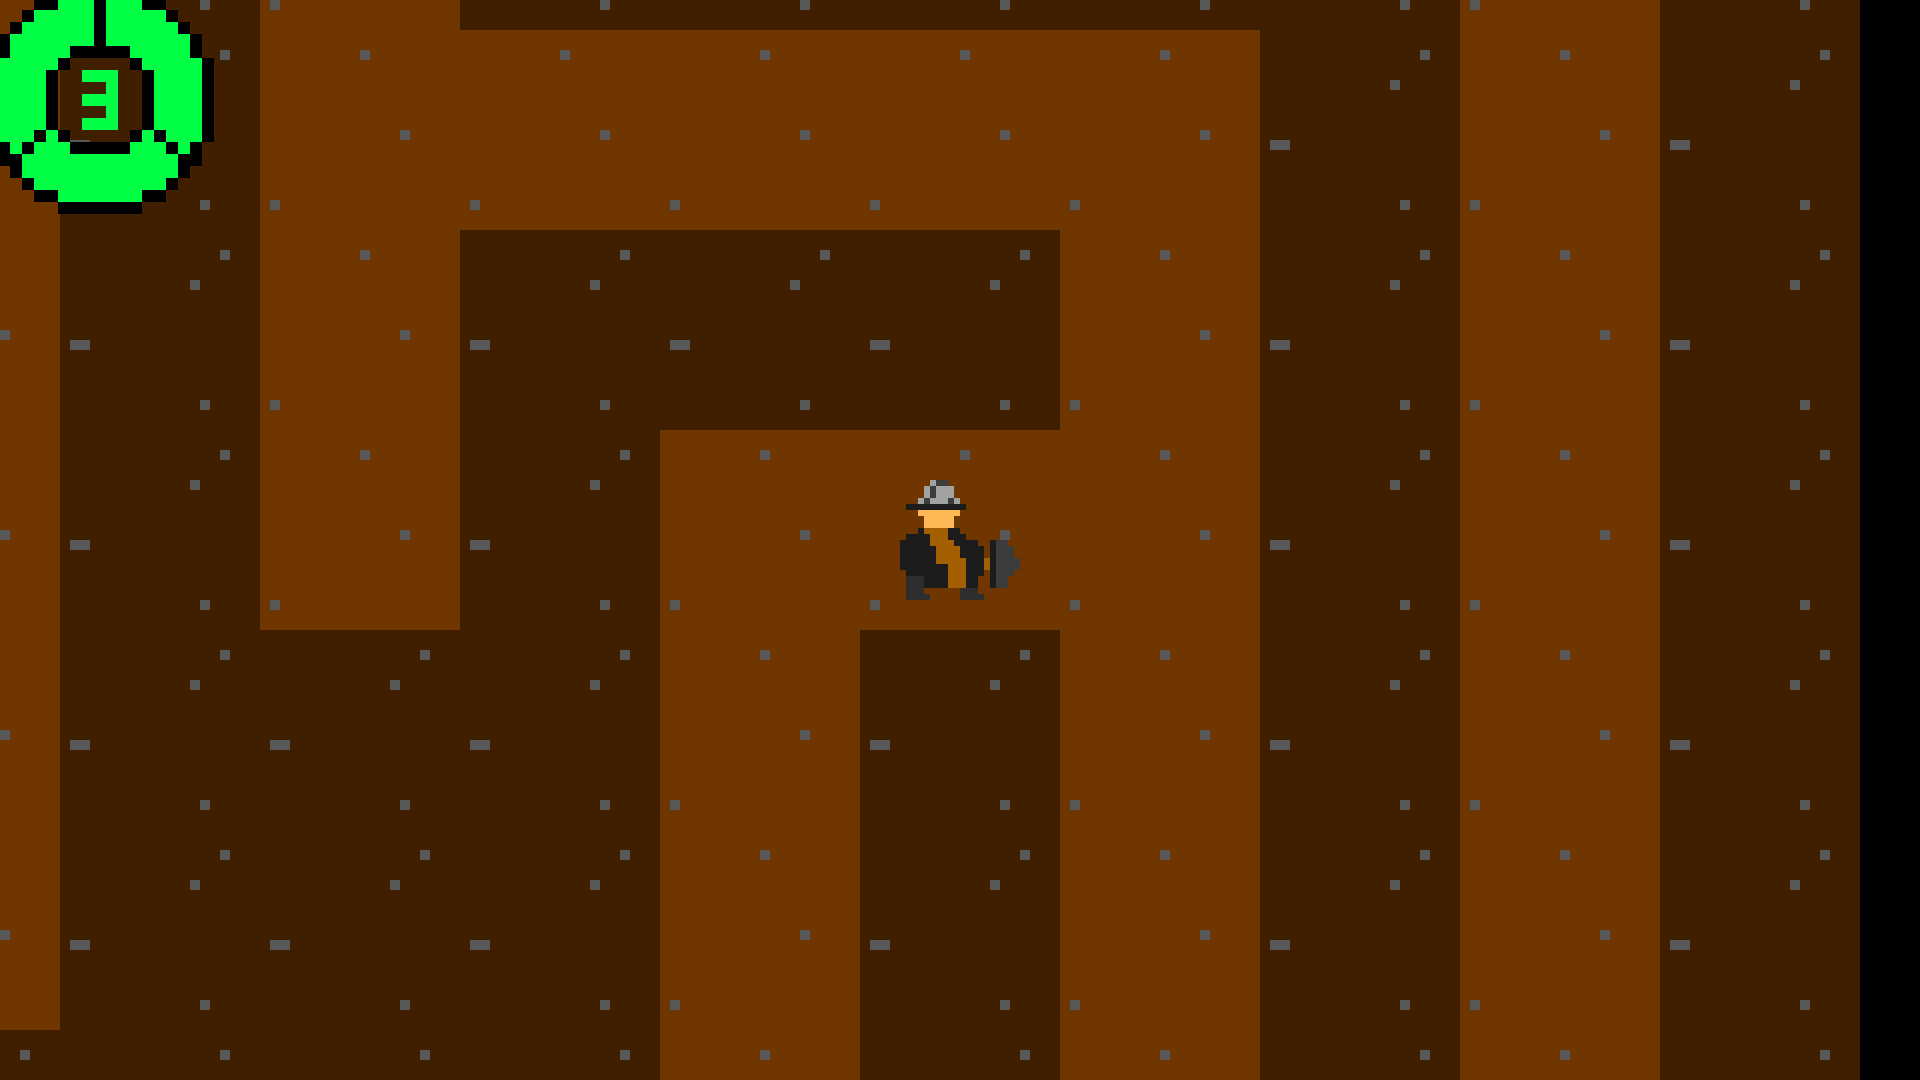
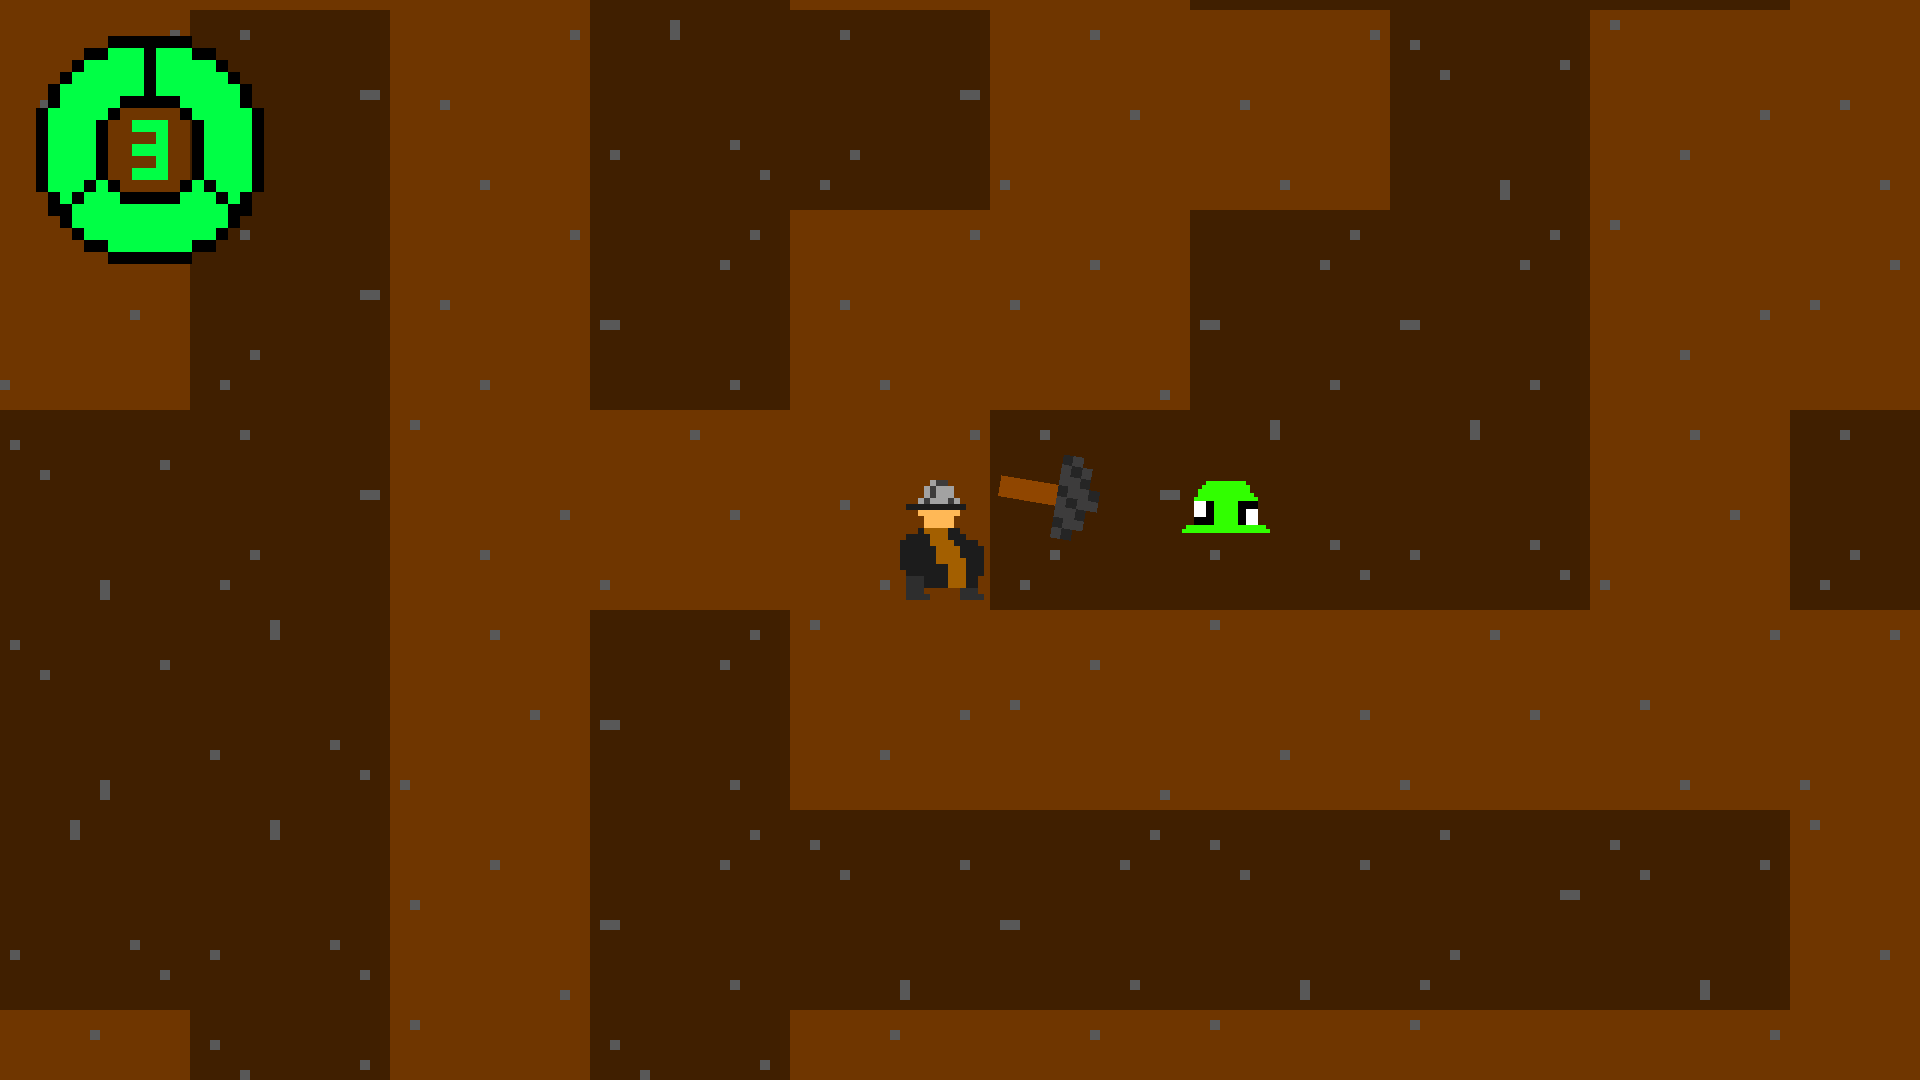
Slime Updated, Glitches Patched

diff --git a/Game.py b/Game.py
@@ -1,5 +1,6 @@
 import pygame
 from Character_Object import miner, Drill, slime
+from random import randint
 
 pygame.init()
 screen = pygame.display.set_mode((0, 0), pygame.FULLSCREEN)
@@ -23,11 +24,15 @@ class Path(Tile):
     def __init__(self, x, y, playerPos):
         super().__init__(x, y, playerPos) #Call SuperObject
         self.image = pygame.image.load("Textures\MainGame\path.png").convert_alpha() #Path
+        temp = randint(0, 3)
+        self.image = pygame.transform.rotate(self.image, temp * 90)
 
 class Wall(Tile):
     def __init__(self, x, y, playerPos):
         super().__init__(x, y, playerPos) #Call SuperObject
         self.image = pygame.image.load("Textures\MainGame\wall.png").convert_alpha() #Wall
+        temp = randint(0, 3)
+        self.image = pygame.transform.rotate(self.image, temp * 90)
 
 class health(pygame.sprite.Sprite):
     def __init__(self, health, x, y):
@@ -90,6 +95,7 @@ healthBar = health(player.health, 150, 150)
 drill = Drill(960, 540)
 slimeAlpha = slime(500, 500)
 healthBarGroup = pygame.sprite.GroupSingle(healthBar)
+slimeGroup = pygame.sprite.GroupSingle(slimeAlpha)
 
 while True:
     screen.fill((0, 0, 0))
@@ -103,6 +109,7 @@ while True:
         if pygame.sprite.spritecollide(player, wallGroup, False, pygame.sprite.collide_mask):
             allTilesGroup.update(0, -1)
         else:
+            moved = True
             vector[1] += 1
 
     if keys[pygame.K_s] or keys[pygame.K_DOWN]:
@@ -110,6 +117,7 @@ while True:
         if pygame.sprite.spritecollide(player, wallGroup, False, pygame.sprite.collide_mask):
             allTilesGroup.update(0, 1)
         else:
+            moved = True
             vector[1] -= 1
 
     if keys[pygame.K_d] or keys[pygame.K_RIGHT]:
@@ -117,6 +125,7 @@ while True:
         if pygame.sprite.spritecollide(player, wallGroup, False, pygame.sprite.collide_mask):
             allTilesGroup.update(-1, 0)
         else:
+            moved = True
             vector[0] += 1
 
     if keys[pygame.K_a] or keys[pygame.K_LEFT]:
@@ -124,35 +133,52 @@ while True:
         if pygame.sprite.spritecollide(player, wallGroup, False, pygame.sprite.collide_mask):
             allTilesGroup.update(1, 0)
         else:
+            moved = True
             vector[0] -= 1
 
-    player.animation(vector[0], vector[1], time, 1)
-    healthBarGroup.update()
+    direction = player.animation(vector[0], vector[1], time, 1) #Work out which direction we are facing
+    if not(moved) and pygame.sprite.spritecollide(player, wallGroup, False, pygame.sprite.collide_mask): #If we are in a wall, we kick the player out
+        if direction:
+            allTilesGroup.update(1, 0)
+        else:
+            allTilesGroup.update(-1,0)
+
+    healthBarGroup.update() #Update everything
     slimeAlpha.update(time)
     drill.update(pygame.mouse.get_pos(), time)
-
     allTilesGroup.draw(screen)
+    player.immune(0, time)
     screen.blit(player.image, player.rect)
     screen.blit(drill.image, drill.rect)
     screen.blit(slimeAlpha.image, slimeAlpha.rect)
     healthBarGroup.draw(screen)
 
+    if pygame.sprite.spritecollide(drill, slimeGroup, True, pygame.sprite.collide_mask):
+        del slimeAlpha
+        slimeAlpha = slime(randint(0, 1920), randint(0, 1080))
+        slimeGroup = pygame.sprite.GroupSingle(slimeAlpha)
+
+    if pygame.sprite.spritecollide(player, slimeGroup, False, pygame.sprite.collide_mask) and not(player.immunity):
+        healthBar.health -= 1
+        player.immune(1, time)
+        if healthBar.health == 0:
+            pygame.quit()
+            exit()
+
+    if not(vector[0]) or not(vector[1]):
+        previousVector = vector
     for event in pygame.event.get():
         if event.type == pygame.QUIT:
+            pygame.quit()
             exit()
 
         if event.type == pygame.KEYDOWN:
             if event.key == pygame.K_KP_ENTER:
+                pygame.quit()
                 exit()
 
             if event.key == pygame.K_KP_PLUS:
                 pygame.image.save(screen, "gameImage.png")
-
-            if event.key == pygame.K_KP_MINUS:
-                healthBar.health -= 1
-
-            if event.key == pygame.K_KP_MULTIPLY:
-                healthBar.health += 1
 
     pygame.display.flip()
     pygame.time.Clock().tick(60)

diff --git a/Character_Object.py b/Character_Object.py
@@ -17,6 +17,8 @@ class miner(pygame.sprite.Sprite): #Creates a movable player
         self.rect = self.image.get_rect(center = (x, y))
         self.mask = pygame.mask.from_surface(self.image)
         self.health = 3
+        self.immunity = False
+        self.timeStamp = 61
 
     def update(self, dx, dy): #Allows the player to move
         self.rect.x += dx * self.velocity
@@ -39,6 +41,8 @@ class miner(pygame.sprite.Sprite): #Creates a movable player
         self.image = pygame.transform.scale(self.image, (60 * self.size, 60 * self.size))
         self.mask = pygame.mask.from_surface(self.image)
 
+        return self.facingDirection
+
     def collide(self):
         if self.facingDirection:
             self.rect.x += self.velocity
@@ -47,17 +51,28 @@ class miner(pygame.sprite.Sprite): #Creates a movable player
             self.rect.x -= self.velocity
             self.rect.y += 1
 
+    def immune(self, flag, time):
+        if flag:
+            self.timeStamp = time
+            self.immunity = True
+        else:
+            if time == self.timeStamp:
+                self.immunity = False
+                self.timeStamp = 61
+
 class Drill(pygame.sprite.Sprite):
   def __init__(self, x, y):
     super().__init__()
-    self.images = ["Textures/Characters/Miner/Drill_1.png", "Textures/Characters/Miner/Drill_2.png", "Textures/Characters/Miner/Drill_3.png"]
+    self.images = ["Textures/Characters/Miner/Drill_1.png", "Textures/Characters/Miner/Drill_2.png", "Textures/Characters/Miner/Drill_3.png"] #All Frames of the animation
     self.pointer = 0
     self.originalImage = pygame.image.load(self.images[self.pointer]).convert_alpha() #Create an image to rotate from
     self.image = self.originalImage #General initializing stuff
     self.pos = (x, y)
     self.rect = self.image.get_rect(center = self.pos)
     self.angle = 0
+    self.mask = pygame.mask.from_surface(self.image)
     self.flip = True
+    self.originalAngle = 0
 
   def update(self, targetPos, time):
     if time % 12 == 0:
@@ -68,8 +83,10 @@ class Drill(pygame.sprite.Sprite):
     yDist = -(targetPos[1] - self.rect.y) #Calculate difference in y
     angle = atan2(yDist, xDist) #Calculate angle between targetPos and drill
 
-    self.image = pygame.transform.rotate(self.originalImage, degrees(angle) - 180) #Rotates around the center
-    self.rect = self.image.get_rect(center = (self.pos[0] + (80 * sin(angle)), self.pos[1] + (80 * cos(angle))))
+    self.image = pygame.transform.rotate(self.originalImage, degrees(angle) + 180) #Rotates around the center
+    self.rect = self.image.get_rect(center = (self.pos[0] + (100 * (sin(angle - 180))), self.pos[1] + (100 * (cos(angle - 180)))))
+    self.mask = pygame.mask.from_surface(self.image)
+    self.originalAngle = angle
 
 class slime(pygame.sprite.Sprite):
     def __init__(self, x, y):
@@ -78,9 +95,10 @@ class slime(pygame.sprite.Sprite):
         self.pointer = 0
         self.pos = (x, y)
         self.image = pygame.image.load(self.images[self.pointer]).convert_alpha()
+        self.mask = pygame.mask.from_surface(self.image)
         self.rect = self.image.get_rect(center = self.pos)
-        self.targetX = randint(200, 1720)
-        self.targetY = randint(200, 880)
+        self.targetX = 960
+        self.targetY = 540
 
     def update(self, time):
         if self.rect.x - self.targetX and self.rect.y - self.targetY:            
